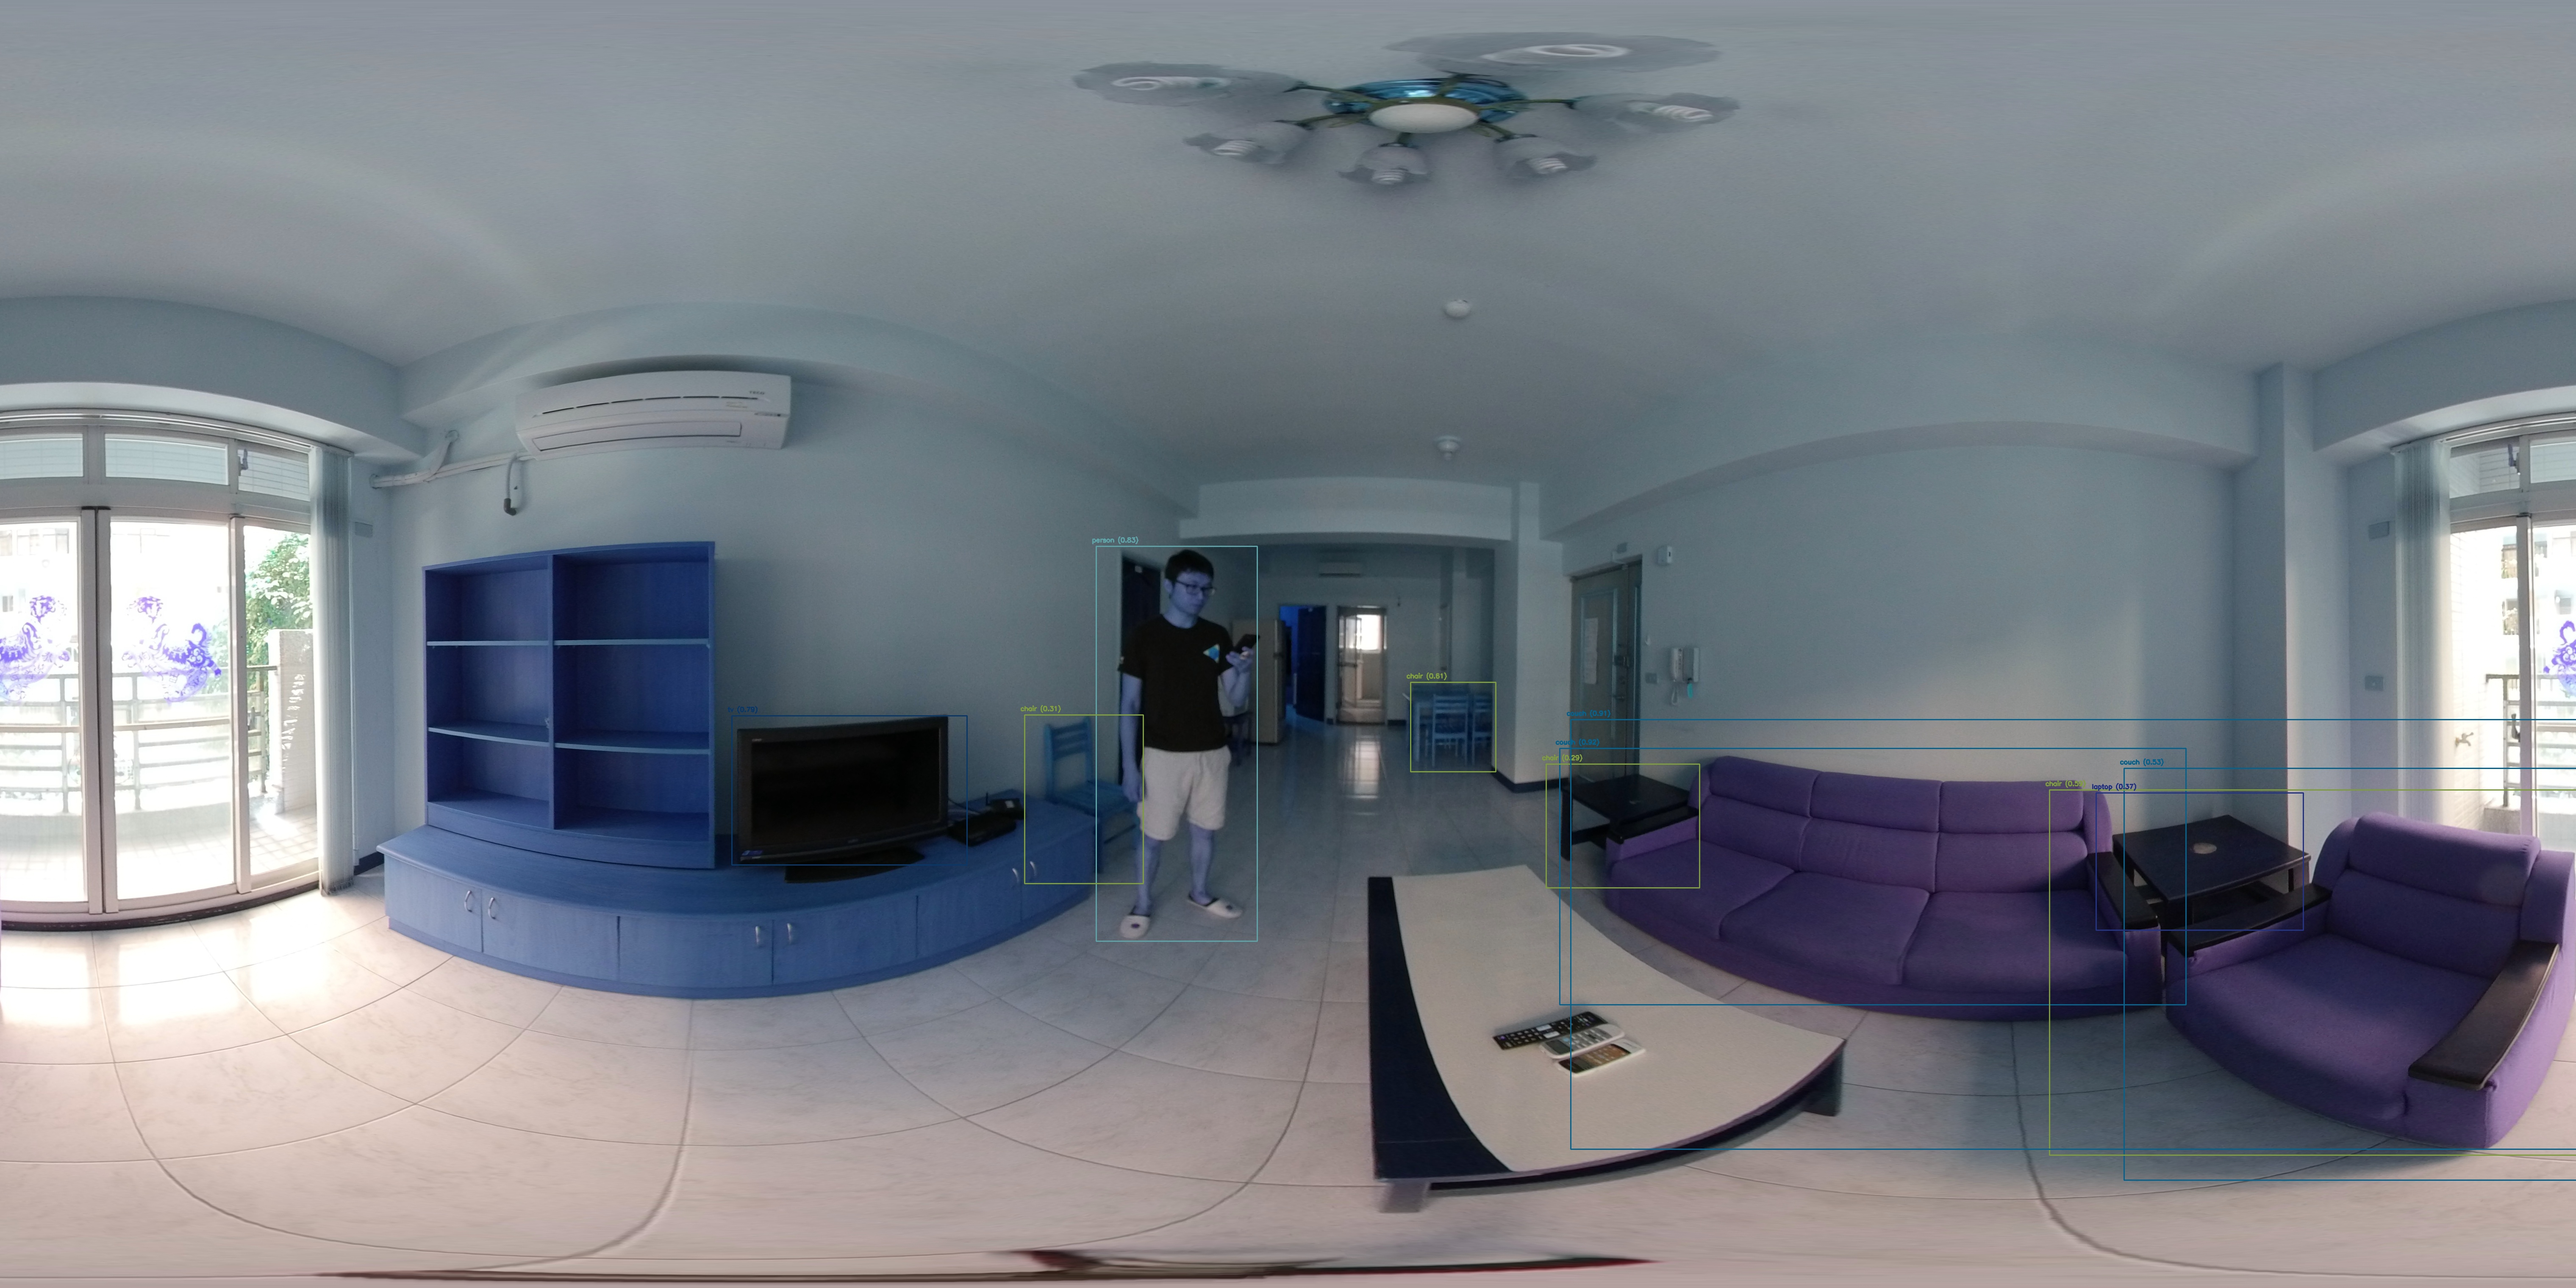
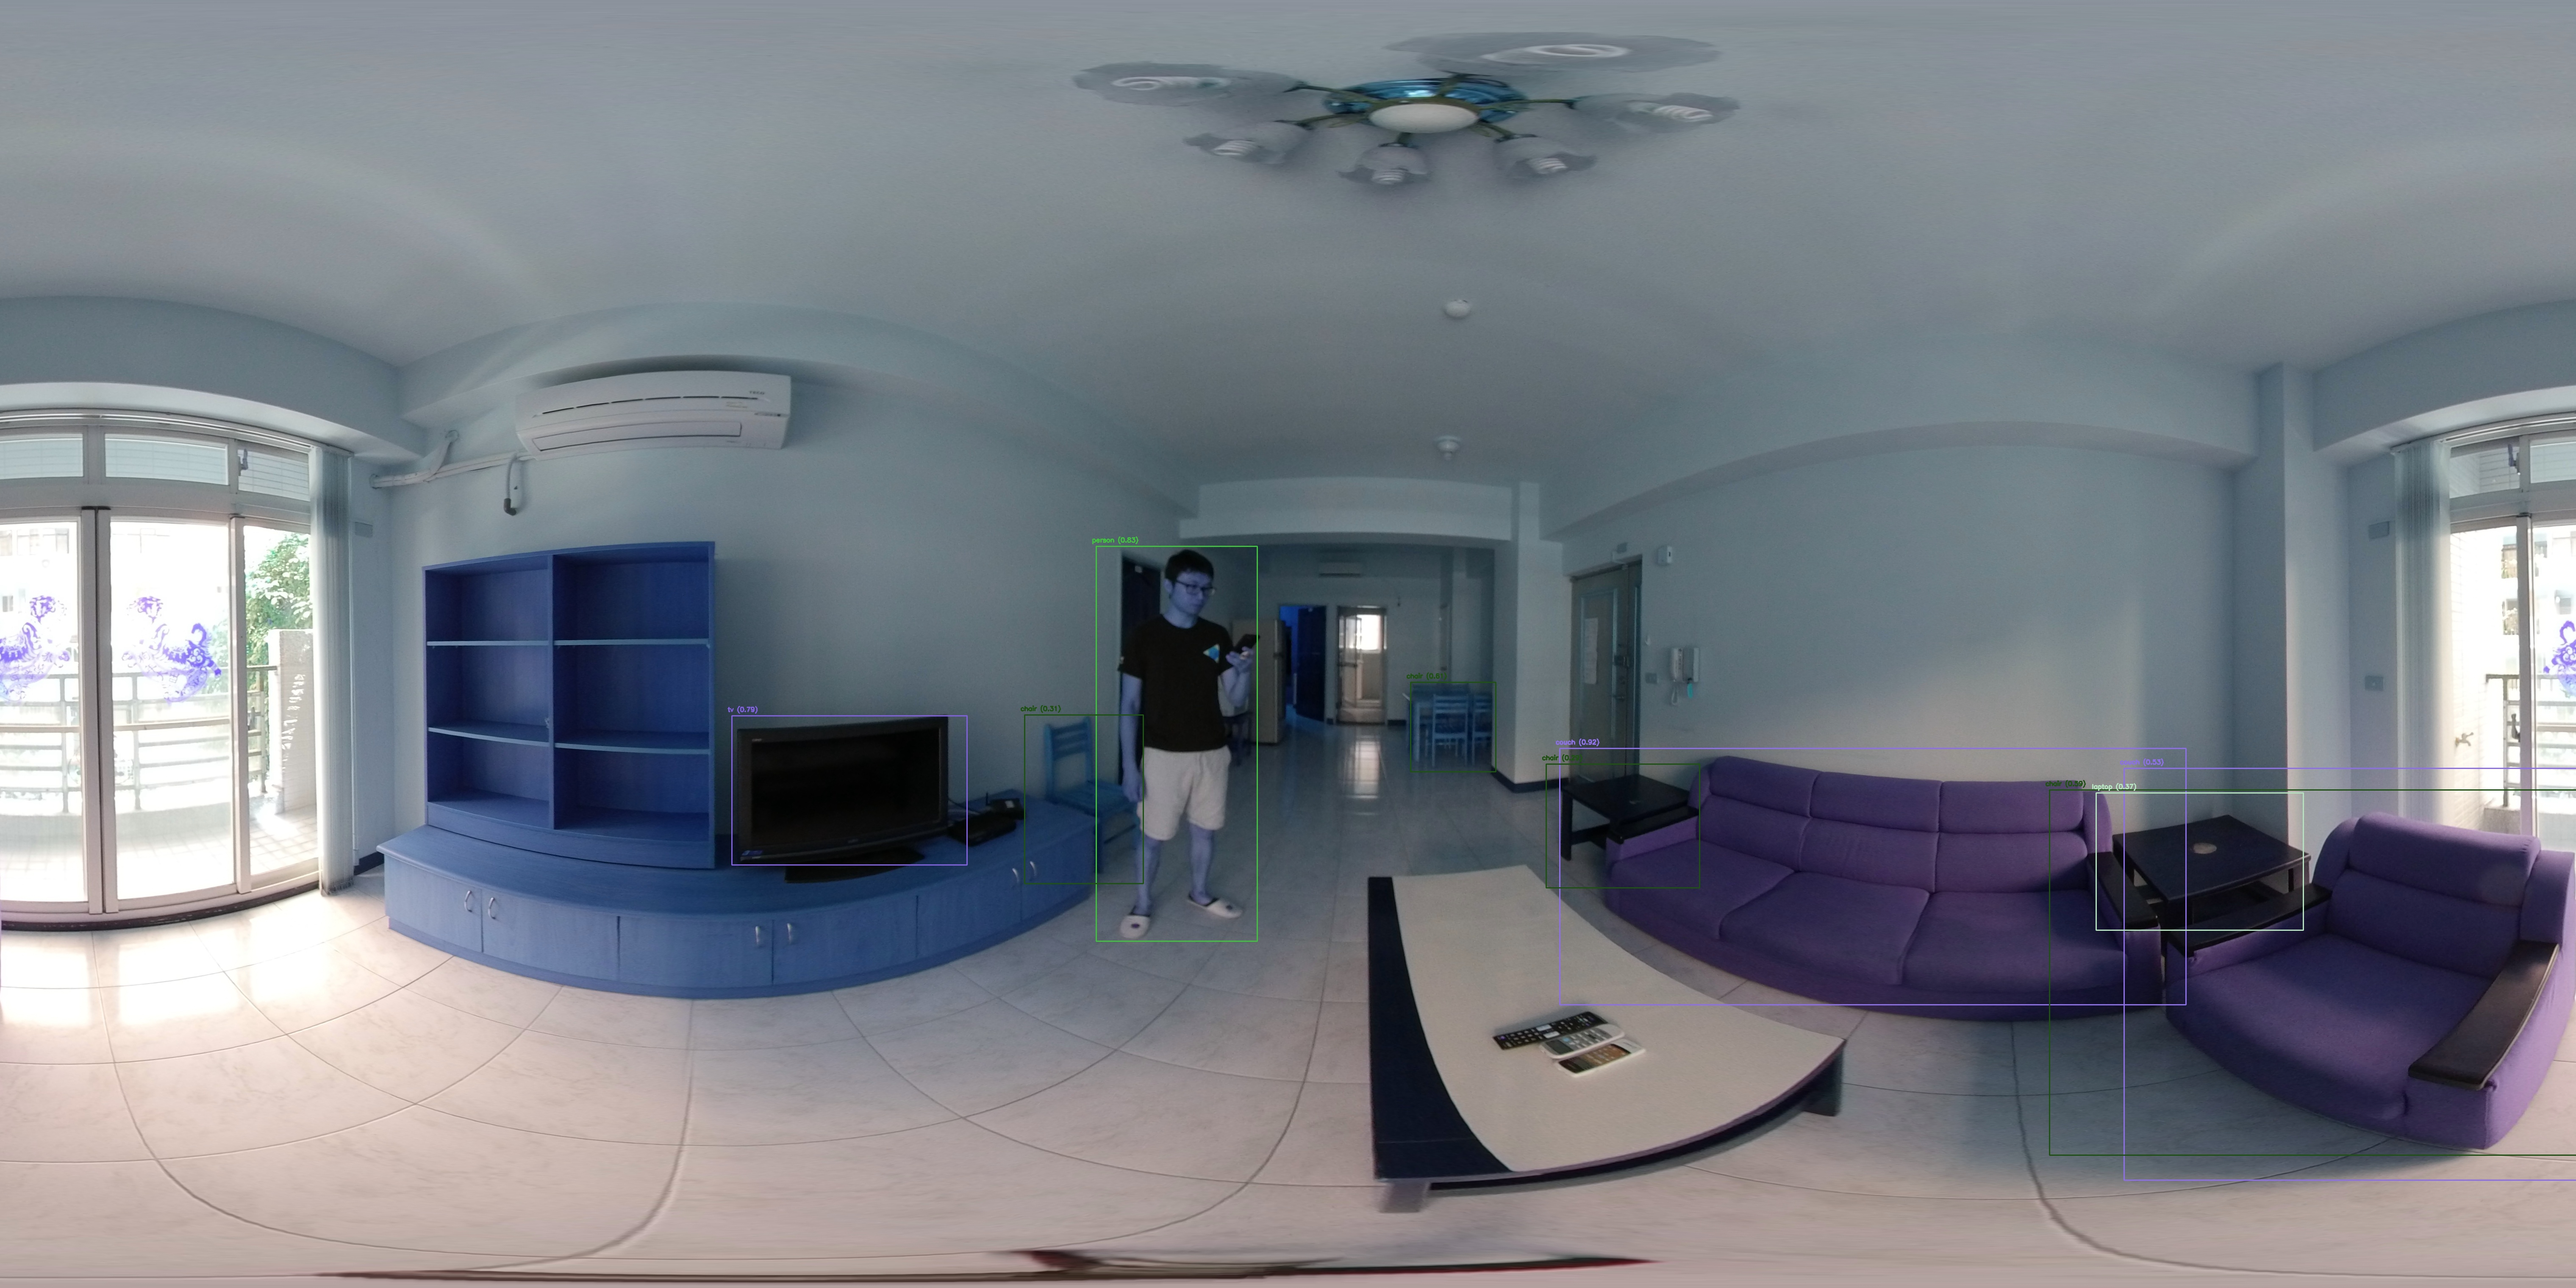
Added more panorama bounding box cleanup

Changed region(s): [[0.8125, 0.5938, 0.9062, 0.625], [0.5938, 0.5625, 0.625, 0.5938]]

diff --git a/stereo.py b/stereo.py
@@ -309,7 +309,7 @@ def soft_nms(pano_detections_with_meta, sigma_one=0.3, sigma_two=0.6, IoU_minimu
                         break
             
         if detection_i not in indices_to_remove:
-            pano_detections_post_nms.append(detection) 
+            pano_detections_post_nms.append(detection)
 
 
     pano_detections_post_nms = np.array(pano_detections_post_nms, dtype=np.dtype([('pano_detection', object)]))
@@ -328,7 +328,7 @@ def stereo_bounding_boxes_to_panorama(frame_detections_with_meta, panorama_path,
         detections_with_meta (np.ndarray of tuple with (np.ndarray, (int, int), int, int)):
             (bounding boxes, (stereographic image width, height), yaw, pitch))
             -> bounding boxes info (see yolov8 model run), the height and width in pixels
-            of the image used in detections, and the yaw and pitch of frame used in detections.
+            of the image used in detections, and the yaw and pitch of frame used in detections. 
         panorama_path (str): file path to panorama image
         stereographic_image_size (int, int): (pixel_W_size, pixel_H_size)
         FOV (int, int): (W_angle, H_angle)
@@ -412,14 +412,17 @@ def stereo_bounding_boxes_to_panorama(frame_detections_with_meta, panorama_path,
             elif V[0] < (V[1] - pano_height / 2):
                 V[0] += pano_height
 
-            if U[1] < U[0] or U[1] < U[2]:
+            if U[1] < U[0] - pano_width / 4 or U[1] < U[2] - pano_width / 4:
                 U[1] += pano_width
-            if U[3] < U[0] or U[3] < U[2]:
+            if U[3] < U[0] - pano_width / 4 or U[3] < U[2] - pano_width / 4:
                 U[3] += pano_width
-            if V[2] < V[0] or V[2] < V[1]:
+            if V[2] < V[0] - pano_height / 4 or V[2] < V[1] - pano_height / 4:
                 V[2] += pano_height
-            if V[3] < V[0] or V[3] < V[1]:
+            if V[3] < V[0] - pano_height / 4 or V[3] < V[1] - pano_height / 4:
                 V[2] += pano_height
+
+            print("U: ", U)
+            print("V: ", V)
 
             # Take the smallest x and y value for top left corner and largest x and y value for the bottom right corner
             x_pano = min([U[0], U[2]])
